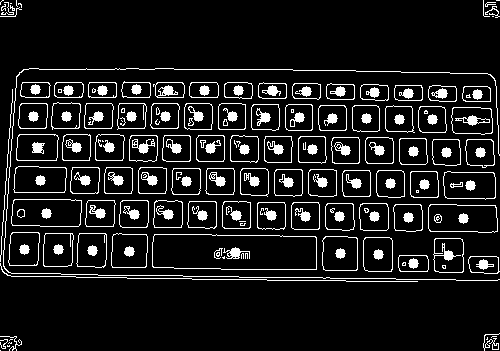
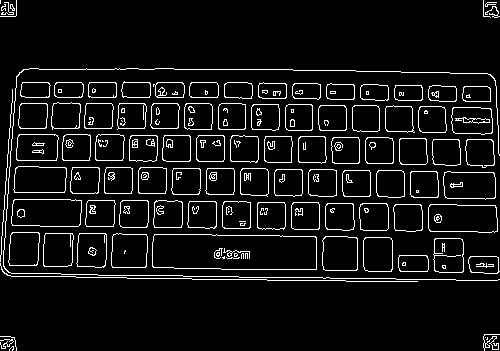
finish text process

diff --git a/kitty.py b/kitty.py
@@ -3,18 +3,19 @@ from cv2 import *
 import numpy as np
 class Keyboard:
     def __init__(self, src, dst):
-        self.img_o = imread(src)
-
-        img_o = self.img_o.copy()
-        img_m = self.detectMarker(img_o)
-        img_r = self.detectRect(img_m)
+        img_o = imread(src)
+        img_o = self.detectMarker(img_o)
+        img_o = self.detectRect(img_o)
         #self.show(img_m)
-        #self.show(img_r)
-        imwrite(dst, img_r)
+        #self.show(img_o)
+        imwrite(dst, img_o)
+
+
 
     def detectMarker(self, img):
         img, corners, ids = self.processMarker(img)
-        img = self.drawMarker(img, corners, ids)
+        #img = self.drawMarker(img, corners, ids)
+        img = self.resizeMarker(img, corners, ids)
         return img
 
     def processMarker(self, img):
@@ -26,7 +27,9 @@ class Keyboard:
 
     def drawMarker(self, img, corners, ids):
         img = aruco.drawDetectedMarkers(img, corners, ids)
+        return img
 
+    def resizeMarker(self, img, corners, ids):
         h, w  = img.shape[:2]
         h = round(500 / w * h)
         w = 500
@@ -49,15 +52,15 @@ class Keyboard:
         img = warpPerspective(img, M, (w, h))
         return img
 
+
+
     def detectRect(self, img):
         img = self.get_image(img)
 
         bound_rects = self.get_bound_rects(img)
         rects_1d    = self.get_rects_1d(bound_rects)
         rects_2d    = self.get_rects_2d(rects_1d)
-        space_bar   = self.get_space_bar(rects_1d)
 
-        img = self.drawRect(img, rects_2d)
         self.get_output(rects_2d)
 
         return img
@@ -92,10 +95,8 @@ class Keyboard:
             if area  > 5500: continue
             if area  < 300:  continue
 
-            start  = (x, y)
-            end    = (x + w, y + h)
-            center = (x + w // 2, y + h // 2)
-            rects_1d.append(center + boundRect[2:])
+            center = [x + w // 2, y + h // 2, w, h]
+            rects_1d.append(center)
 
         rects_1d = sorted(rects_1d, key=lambda center: center[1])
         return rects_1d
@@ -103,6 +104,7 @@ class Keyboard:
     def get_rects_2d(self, rects_1d):
         rects_2d = self.get_line(rects_1d)
         rects_2d = self.remove_double(rects_2d)
+        rects_2d = self.scale(rects_2d)
         return rects_2d
 
     def get_line(self, rects_1d):
@@ -119,46 +121,37 @@ class Keyboard:
         return rects_2d
 
     def remove_double(self, rects_2d):
-        for index, line in enumerate(rects_2d):
-            rects_2d[index] = sorted(line, key=lambda center: center[0])
+        for idx_line, line in enumerate(rects_2d):
+            rects_2d[idx_line] = sorted(line, key=lambda center: center[0])
 
         new_rects_2d = rects_2d.copy()
-        for idx, line in enumerate(rects_2d):
+        for idx_line, line in enumerate(rects_2d):
             p_rect = line[0]
             for rect in line[1:]:
                 if rect[0] - p_rect[0] < p_rect[2] // 4:
-                    new_rects_2d[idx].remove(rect)
+                    new_rects_2d[idx_line].remove(rect)
 
                 p_rect = rect
 
         return new_rects_2d
 
-    def get_space_bar(self, rects_1d):
-        min_ratio = 2
-        min_ratio_index = None
+    def scale(self, rects_2d):
+        for line in rects_2d:
+            for rect in line:
+                for idx_num, num in enumerate(rect):
+                    rect[idx_num] = int(num / 500 * 2100)
 
-        for index, rect in enumerate(rects_1d):
-            x, y, w, h = rect
-            ratio = h / w
-
-            if min_ratio <= ratio: continue
-            min_ratio = ratio
-            min_ratio_index = index
-
-        return min_ratio_index
+        return rects_2d
 
     def get_output(self, rects):
-        with open("./layout.txt", "w+") as f:
-            for line in rects:
-                f.write(str(len(line)) + "\n")
-                for rect in line:
-                    f.write(str(rect) + "\n")
-                f.write("\n")
+        import json
+        with open('layout.json', 'w') as output:
+            json.dump(rects, output)
 
     def drawRect(self, img, rects):
         for line in rects:
             for rect in line:
-                circle(img, rect[:2], 5, (255, 255, 255), -1)
+                circle(img, tuple(rect[:2]), 5, (255, 255, 255), -1)
 
         return img
 

diff --git a/typing.py b/typing.py
@@ -1,13 +1,18 @@
 import re
 from const import *
+from arduino_wifi_shield import *
 class Spliter:
     key_state_array = [QWERTY, DUBEOLSIK]
     key_state_index = 0
-    key_state = QWERTY
+    key_state = key_state_array[key_state_index]
 
     def __init__(self, text):
-        text_s = self.text_process(text)
-        self.type_process(text_s)
+        self.arduino = Arduino()
+        with open('./layout.json') as keyboard_layout:
+            self.layout = json.load(keyboard_layout)
+
+        text = self.text_process(text)
+        self.type_process(text)
 
     def text_process(self, text):
         result = list()
@@ -66,62 +71,36 @@ class Spliter:
 
     def to_default_key_state(self, result):
         if self.key_state_index == HANGUL:
-            result += '\0'
+            self.key_state_index = ENGLISH
+            result += '\x00'
 
         return result
 
     def type_process(self, text):
-        print(text, self.key_state)
-        print(end='\n\"\"\"\n')
         for key in text:
-            if key == '\0':
+            if key == '\x00':
                 self.set_switch()
-                # self.arduino.switch()
-                print(end="~")
+                self.arduino.switch()
                 continue
 
             if key == ' ':
-                # self.arduino.push_space_bar()
-                print(end="!")
+                self.arduino.type_space_bar()
                 continue
 
-            for index, line in enumerate(self.key_state):
-                if key in line:
-                    # self.arduino.push_key(self.key_state_index, index)
-                    print(key, end="")
-                    break
-        print(end='\n\"\"\"\n\n')
+            for idx_line, line in enumerate(self.key_state):
+                idx_key = line.find(key)
+                if idx_key == -1:
+                    continue
 
+                print(key)
+                if idx_line >= 6:
+                    self.arduino.type(self.arduino.shift, self.layout[idx_line % 6][idx_key])
+                else:
+                    self.arduino.type(self.layout[idx_line % 6][idx_key])
+                break
+
+        self.arduino.upload()
 
 if __name__ == '__main__':
-    test = '''
-김동ㅎgㅎ
-dfsdf
-sdfsdfsdf'''
+    test = '''this is called test 큐ㅋㅠ'''
     spliter = Spliter(test)
-
-    '''
-    for key in result:
-        if key == ' ':
-            # push space bar
-            print('shift:\tFalse\trows:\t4\tcols:\t0')
-            continue
-
-        if key == '\b':
-            print('switched!')
-            key_state_index = (key_state_index + 1) % len(key_state)
-
-        for index, line in enumerate(key_state[key_state_index]):
-            if key in line:
-                print('shift:', bool(index // 4), 'rows:', index % 4, 'cols:', line.index(key), sep='\t')
-
-                if index >= 4:
-                    pass
-                    # hold shift
-                # push row and col
-
-                if index >= 4:
-                    pass
-                    # release shift
-                break
-    '''

diff --git a/arduino_wifi_shield.py b/arduino_wifi_shield.py
@@ -1,34 +1,63 @@
+import json
+from const import *
 class Arduino:
     def __init__(self):
-        #with open('./layout.txt', 'r') as f:
-        #    self.layout = f.readlines()
-        #self.shift, self.ctrl, self.cmd, self.space = self.layout[0]
-        self.shift = "shift"
-        self.ctrl  = "ctrl"
-        self.cmd   = "cmd"
-        self.space = "space"
-        self.enter = "enter"
-        
+        #"""
+        with open('./layout.json') as data_file:
+            self.layout = json.load(data_file)
+
+        self.shift, self.ctrl, self.cmd, self.space, self.enter \
+        = self.find_special_keys(SHIFT, CTRL, CMD, SPACE, ENTER)
+
+
+
+    def find_special_keys(self, *SPECIAL_KEYs):
+        result = list()
+        for key in SPECIAL_KEYs:
+            if key == SHIFT:
+                result.append(self.layout[-2][0])
+                continue
+
+            if key == CTRL:
+                result.append(self.layout[-1][1])
+                continue
+
+            if key == CMD:
+                result.append(self.layout[-1][3])
+                continue
+
+            if key == SPACE:
+                result.append(self.layout[-1][4])
+                continue
+
+            if key == ENTER:
+                result.append(self.layout[-3][-1])
+                continue
+
+            result.append(None)
+
+        return result
+
     def hold(self, key):
-        print("hold", key)
+        print("hold", key[:2])
 
     def release(self, key):
-        print("release", key)
+        print("release", key[:2])
 
     def type(self, *keys):
         if (len(keys) > 1):
             for key in keys[:-1]:
-                self.hold("!" + key)
+                self.hold(key)
 
         self.hold(keys[-1])
         self.release(keys[-1])
 
         if (len(keys) > 1):
             for key in keys[:-1]:
-                self.release("~" + key)
+                self.release(key)
 
     def switch(self):
-        self.type(self.cmd, self.ctrl, self.space)
+        self.type(self.cmd, self.space)
 
     def upload(self):
         self.type(self.cmd, self.enter)
@@ -36,6 +65,8 @@ class Arduino:
     def type_space_bar(self):
         self.type(self.space)
 
+
+
 if __name__ == "__main__":
     arduino = Arduino()
-    arduino.type_space_bar()
+    arduino.upload()

diff --git a/const.py b/const.py
@@ -1,29 +1,36 @@
 ENGLISH, HANGUL = 0, 1
+SHIFT, CTRL, CMD, SPACE, ENTER = range(5)
 BASE_CODE, CHOSUNG, JUNGSUNG = 44032, 588, 28
 CHOSUNG_LIST  = ['ㄱ', 'ㄲ', 'ㄴ', 'ㄷ', 'ㄸ', 'ㄹ', 'ㅁ', 'ㅂ', 'ㅃ', 'ㅅ', 'ㅆ', 'ㅇ', 'ㅈ', 'ㅉ', 'ㅊ', 'ㅋ', 'ㅌ', 'ㅍ', 'ㅎ']
 JUNGSUNG_LIST = ['ㅏ', 'ㅐ', 'ㅑ', 'ㅒ', 'ㅓ', 'ㅔ', 'ㅕ', 'ㅖ', 'ㅗ', 'ㅘ', 'ㅙ', 'ㅚ', 'ㅛ', 'ㅜ', 'ㅝ', 'ㅞ', 'ㅟ', 'ㅠ', 'ㅡ', 'ㅢ', 'ㅣ']
 JONGSUNG_LIST = ['', 'ㄱ', 'ㄲ', 'ㄱㅅ', 'ㄴ', 'ㄴㅈ', 'ㄴㅎ', 'ㄷ', 'ㄹ', 'ㄹㄱ', 'ㄹㅁ', 'ㄹㅂ', 'ㄹㅅ', 'ㄹㅌ', 'ㄹㅍ', 'ㄹㅎ', 'ㅁ', 'ㅂ', 'ㅂㅅ', 'ㅅ', 'ㅆ', 'ㅇ', 'ㅈ', 'ㅊ', 'ㅋ', 'ㅌ', 'ㅍ', 'ㅎ']
 
 QWERTY = [
-'`1234567890-=',
-'qwertyuiop[]\\',
-'asdfghjkl;\'\n',
-'zxcvbnm,./',
-'~!@#$%^&*()_+',
-'QWERTYUIOP{}|',
-'ASDFGHJKL:\"\n',
-'ZXCVBNM<>?',
+'',
+'`1234567890-=\b',
+'\tqwertyuiop[]\\',
+'\aasdfghjkl;\'\n',
+'\fzxcvbnm,./\f',
+' ',
+'',
+'~!@#$%^&*()_+\b',
+'\tQWERTYUIOP{}|',
+'\aASDFGHJKL:\"\n',
+'\fZXCVBNM<>?\f',
 ' ',
 ]
 
 DUBEOLSIK = [
-'`1234567890-=',
-'ㅂㅈㄷㄱㅅㅛㅕㅑㅐㅔ[]\\',
-'ㅁㄴㅇㄹㅎㅗㅓㅏㅣ;\'\n',
-'ㅋㅌㅊㅍㅠㅜㅡ,./',
-'~!@#$%^&*()_+',
-'ㅃㅉㄸㄲㅆㅛㅕㅑㅒㅖ{}|',
-'ㅁㄴㅇㄹㅎㅗㅓㅏㅣ:\"\n',
-'ㅋㅌㅊㅍㅠㅜㅡ<>?',
+'',
+'`1234567890-=\b',
+'\tㅂㅈㄷㄱㅅㅛㅕㅑㅐㅔ[]\\',
+'\aㅁㄴㅇㄹㅎㅗㅓㅏㅣ;\'\n',
+'\fㅋㅌㅊㅍㅠㅜㅡ,./\f',
+' ',
+'',
+'~!@#$%^&*()_+\b',
+'\tㅃㅉㄸㄲㅆㅛㅕㅑㅒㅖ{}|',
+'\aㅁㄴㅇㄹㅎㅗㅓㅏㅣ:\"\n',
+'\fㅋㅌㅊㅍㅠㅜㅡ<>?\f',
 ' ',
 ]
